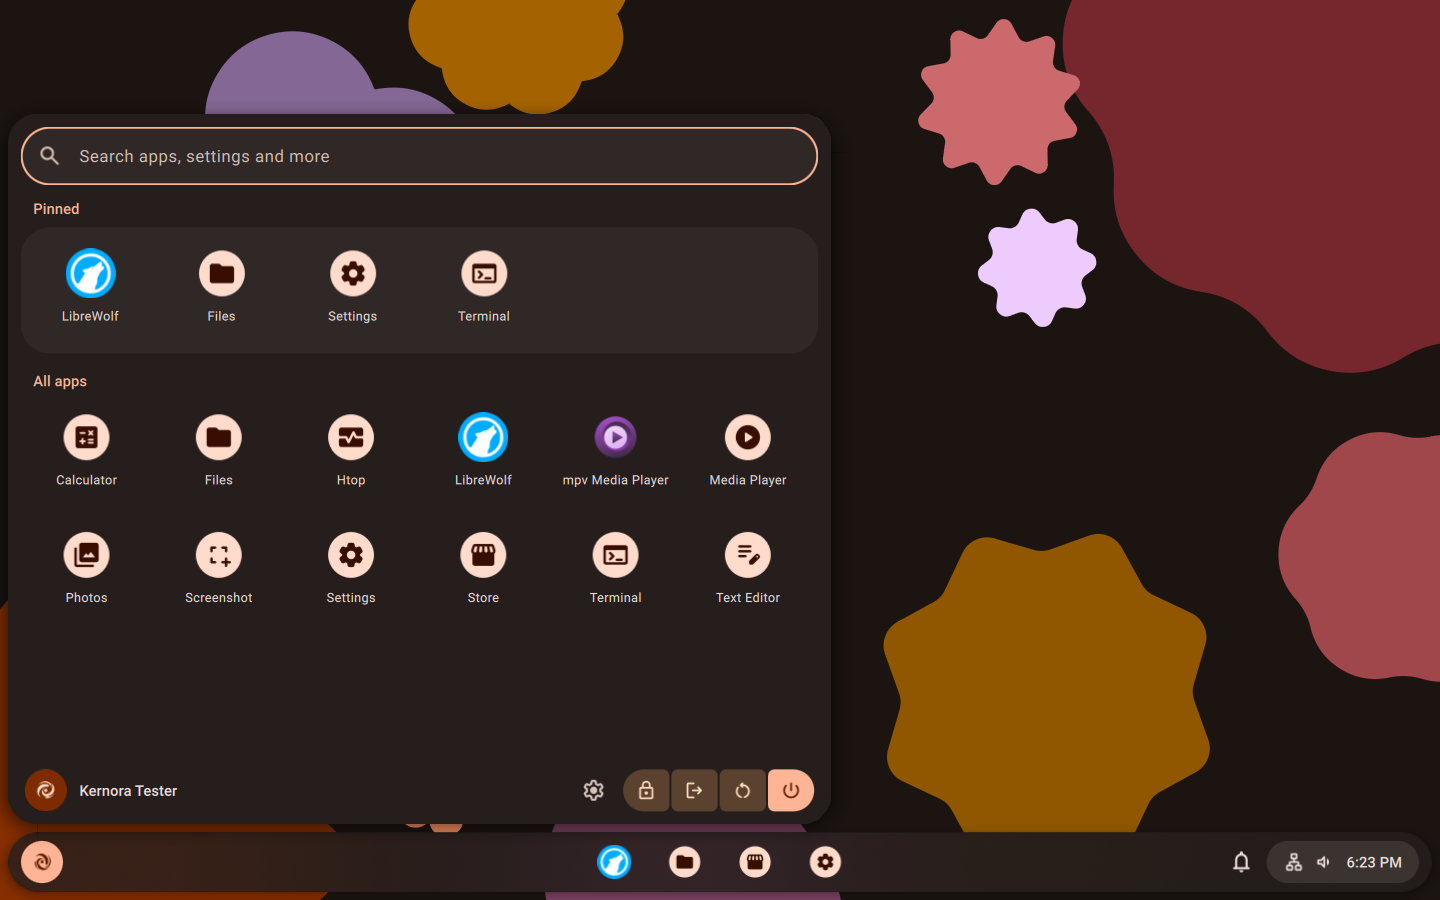
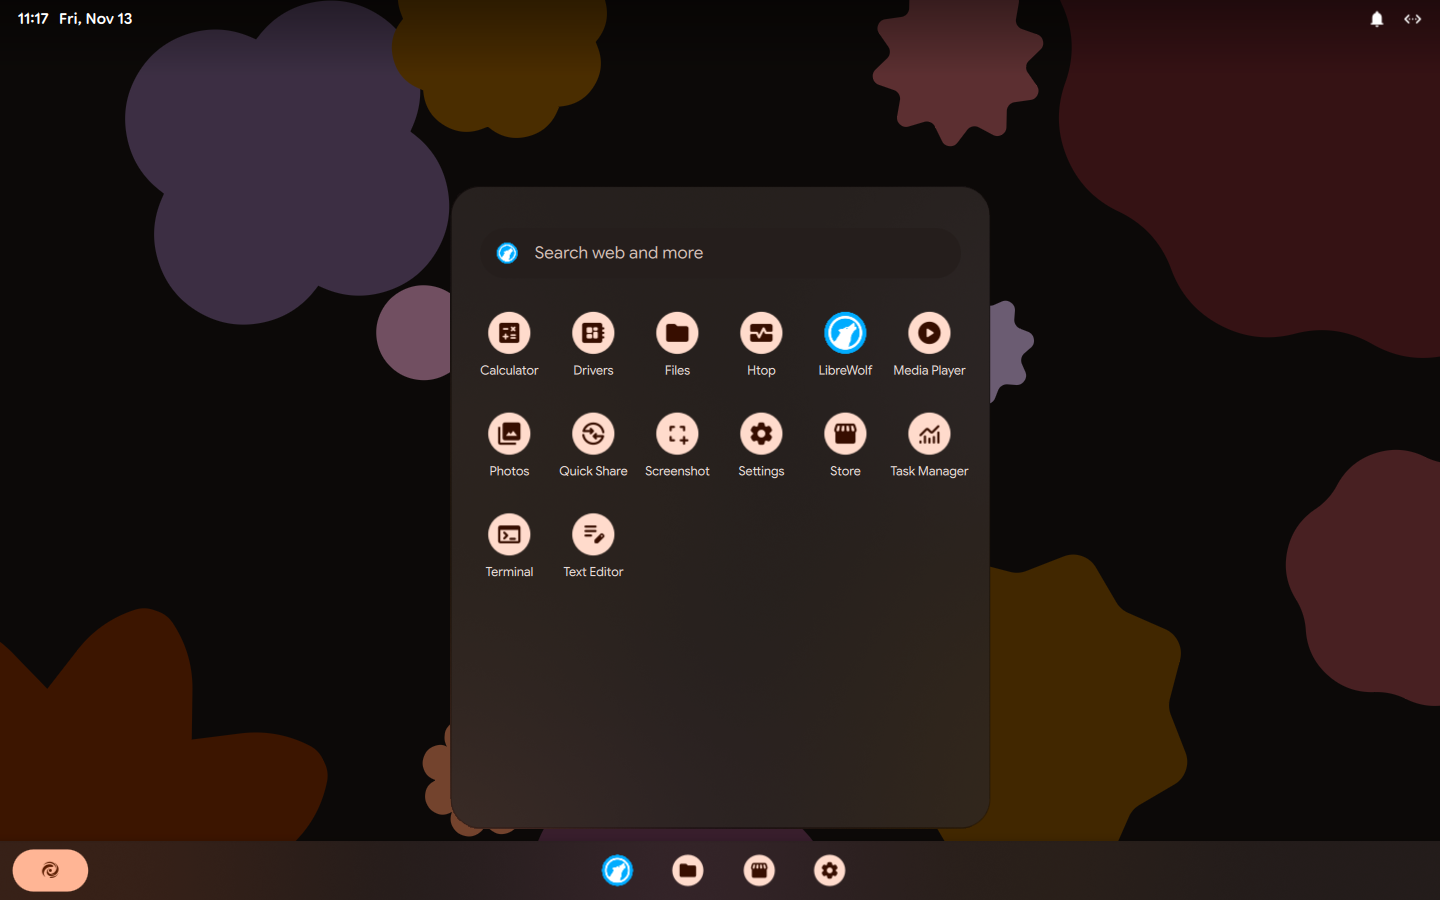
docs: KED 2 screenshots and readme
New screenshots from a fresh install of the rebuilt ISO, and the readme describes the KED 2 shell, Google Sans Flex, wallpaper colours and the new packages.

diff --git a/README.md b/README.md
@@ -24,24 +24,24 @@ root folder ownership that caused it.
 
 ## Screenshots
 
-Taken in a VM with the default colour and dark theme.
+KED 2, taken in a VM right after a fresh install, default colour and dark theme (blur turned on, a real GPU does that by itself).
 
 <table>
   <tr>
-    <td><img src="docs/screenshots/launcher.png" alt="App launcher"></td>
+    <td><img src="docs/screenshots/launcher.png" alt="Apps menu"></td>
     <td><img src="docs/screenshots/quick-settings.png" alt="Quick settings"></td>
   </tr>
   <tr>
-    <td align="center">App launcher</td>
+    <td align="center">Apps menu</td>
     <td align="center">Quick settings</td>
   </tr>
   <tr>
     <td><img src="docs/screenshots/settings.png" alt="Settings, wallpaper and style"></td>
-    <td><img src="docs/screenshots/files.png" alt="Files with a folder selected"></td>
+    <td><img src="docs/screenshots/files.png" alt="Files, folders on top"></td>
   </tr>
   <tr>
     <td align="center">Settings</td>
-    <td align="center">Files, with the selection toolbar</td>
+    <td align="center">Files, folders on top like Google Drive</td>
   </tr>
   <tr>
     <td><img src="docs/screenshots/store.png" alt="Store"></td>
@@ -56,18 +56,24 @@ Taken in a VM with the default colour and dark theme.
 ## What's in it
 
 - Debian 13.7 from a fixed snapshot (2026-10-15), Linux 6.12, KDE Plasma 6.3
-- a Kernora shell on top of Plasma: see-through floating panel (you can make
-  it solid in Settings), app launcher, quick settings, notifications, lock
-  screen, Alt+Tab and power menu. Every colour comes from one seed colour,
-  `#ff6a1e`, and you can switch the whole look between Material Design 1, 2
-  and 3 in Settings
+- a Kernora shell on top of Plasma in KED 2 (Kernora Expressive Design 2),
+  which looks and works like Googlebook: status bar on top, square taskbar,
+  apps menu in the middle of the screen, quick settings and notifications
+  dropping down from the bar, app groups on the desktop, lock screen, Alt+Tab
+  and power menu. Windows have all four corners rounded, and quick settings,
+  notifications and the apps menu sit over a blurred background
+- Google Sans Flex as the system font, set up the way Pixel does it (Google
+  Sans covers Cyrillic)
+- colours: the theme follows your wallpaper like on Android, or you pick one
+  of 20 colours. You can also switch the whole look between Material Design
+  1, 2 and 3 in Settings
 - Kernora apps instead of the KDE ones: Settings, Store, Files, Text Editor,
   Photos, Media Player, Calculator, Screenshot, Terminal (Alacritty) and
   Welcome, plus a file chooser every app uses
 - Store for apps and games from Flathub and Debian, so you don't need the
   terminal to install stuff (see [docs/STORE.md](docs/STORE.md))
-- Material 3 desktop widgets and live wallpapers: Shapes, Rhythm, Starfall
-  and Pastel
+- Material 3 desktop widgets, live wallpapers (Shapes, Rhythm, Starfall,
+  Pastel, Ribbon) and picture wallpapers in collections like on Pixel
 - the usual terminal tools out of the box: git, curl, htop, fastfetch and co
 - LibreWolf as the browser. It's not in Debian, so the build installs one
   pinned version from the LibreWolf repo and installed systems update from
@@ -133,7 +139,8 @@ into it.
 
 - `packages/native/`: Kernora's own packages (`kernora-base`,
   `kernora-archive`, `kernora-desktop`, `kernora-apps`,
-  `kernora-quickshare`)
+  `kernora-quickshare`, `kernora-wallpapers`), plus `fonts-google-sans` and
+  `kwin-effect-rounded-corners`
 - `packages/derived/`: patched Debian packages (`base-files`, Calamares and
   `polkit-kde-agent-1`)
 - `configs/`: upstream pins, the live image and the system identity
